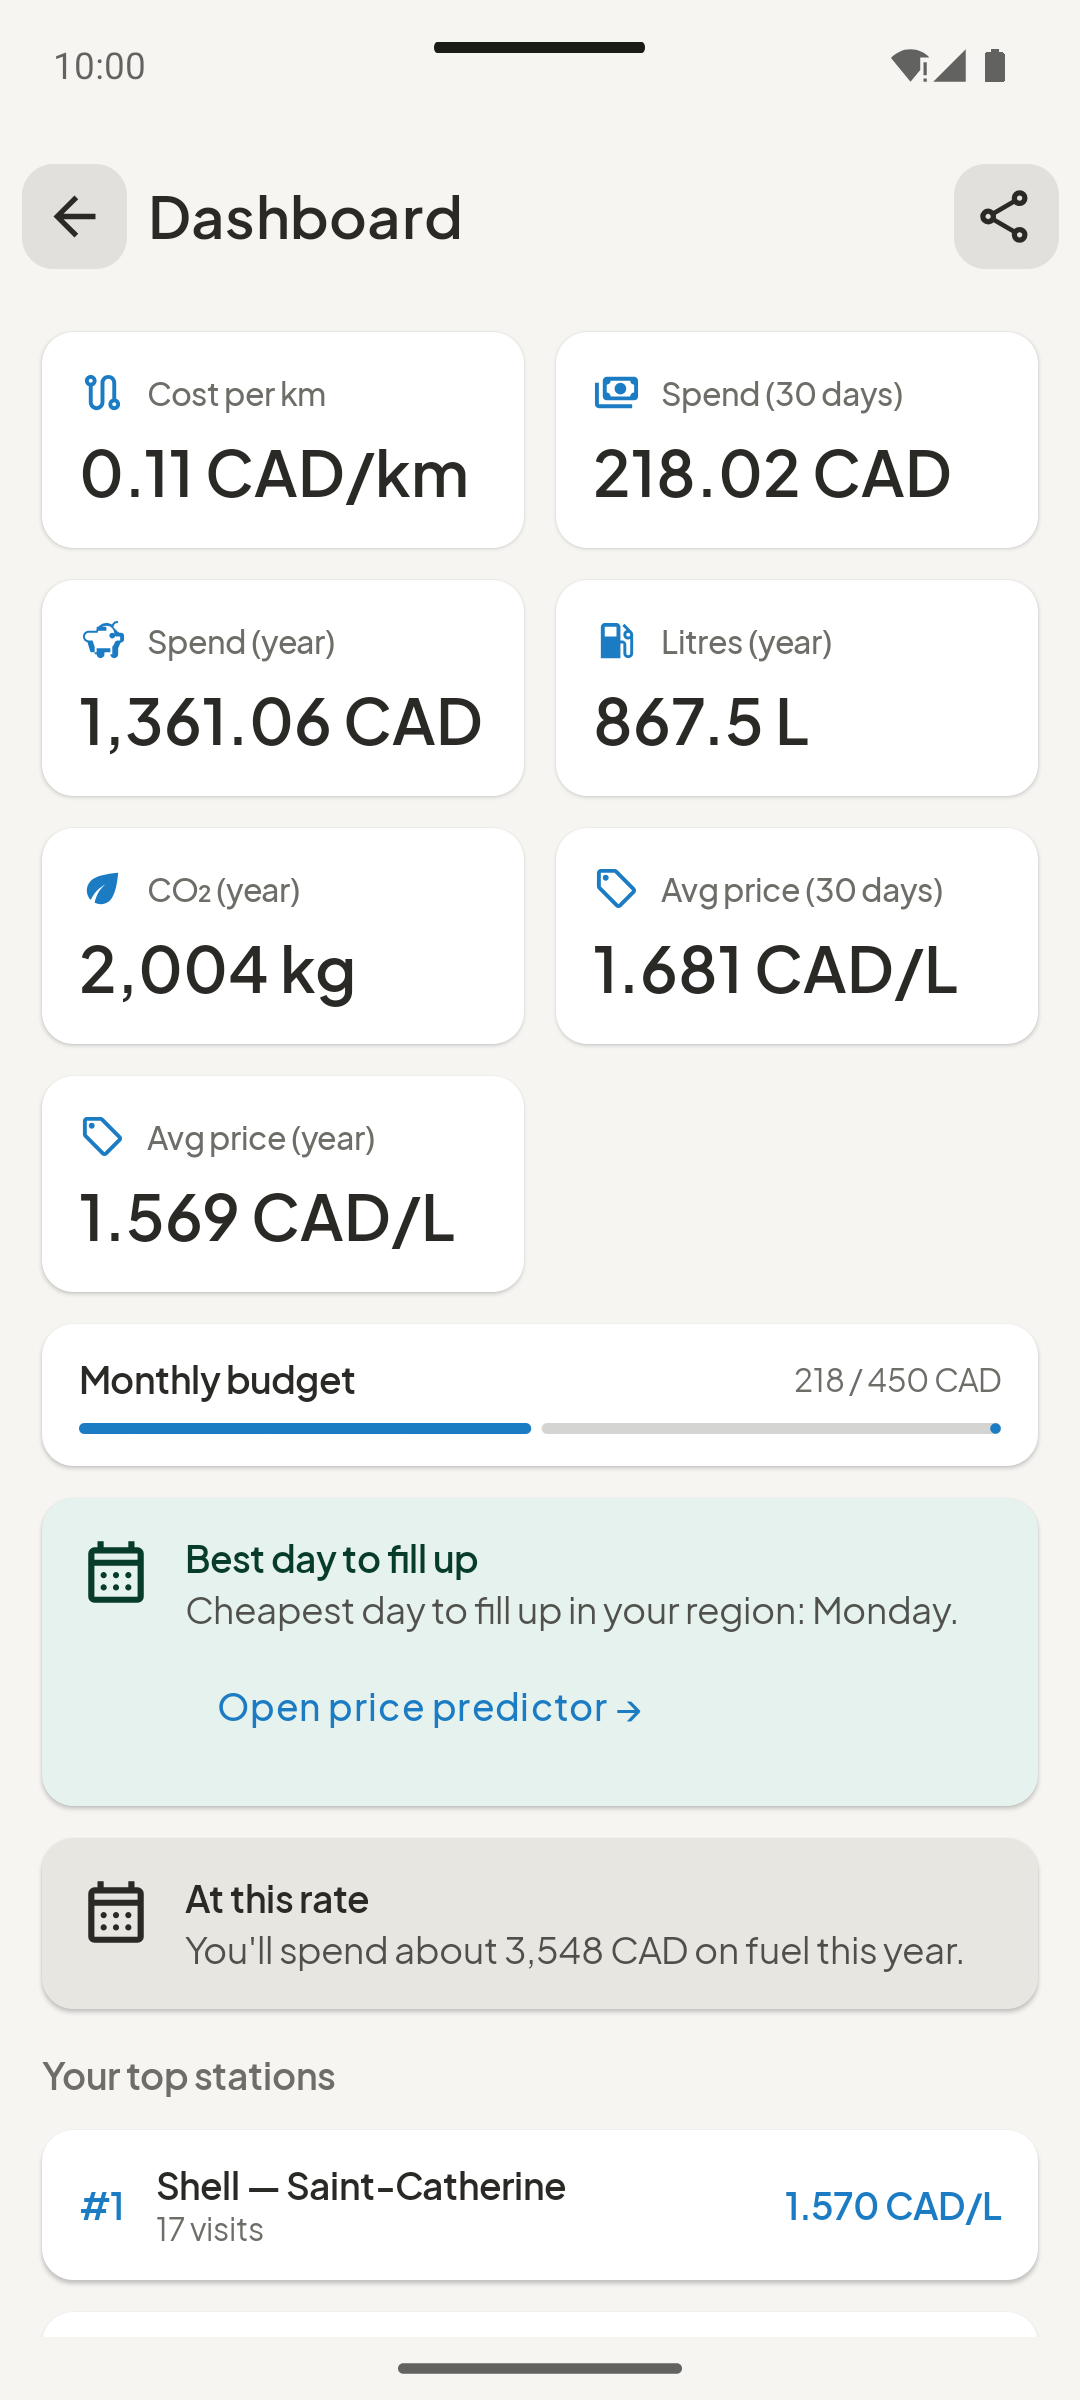
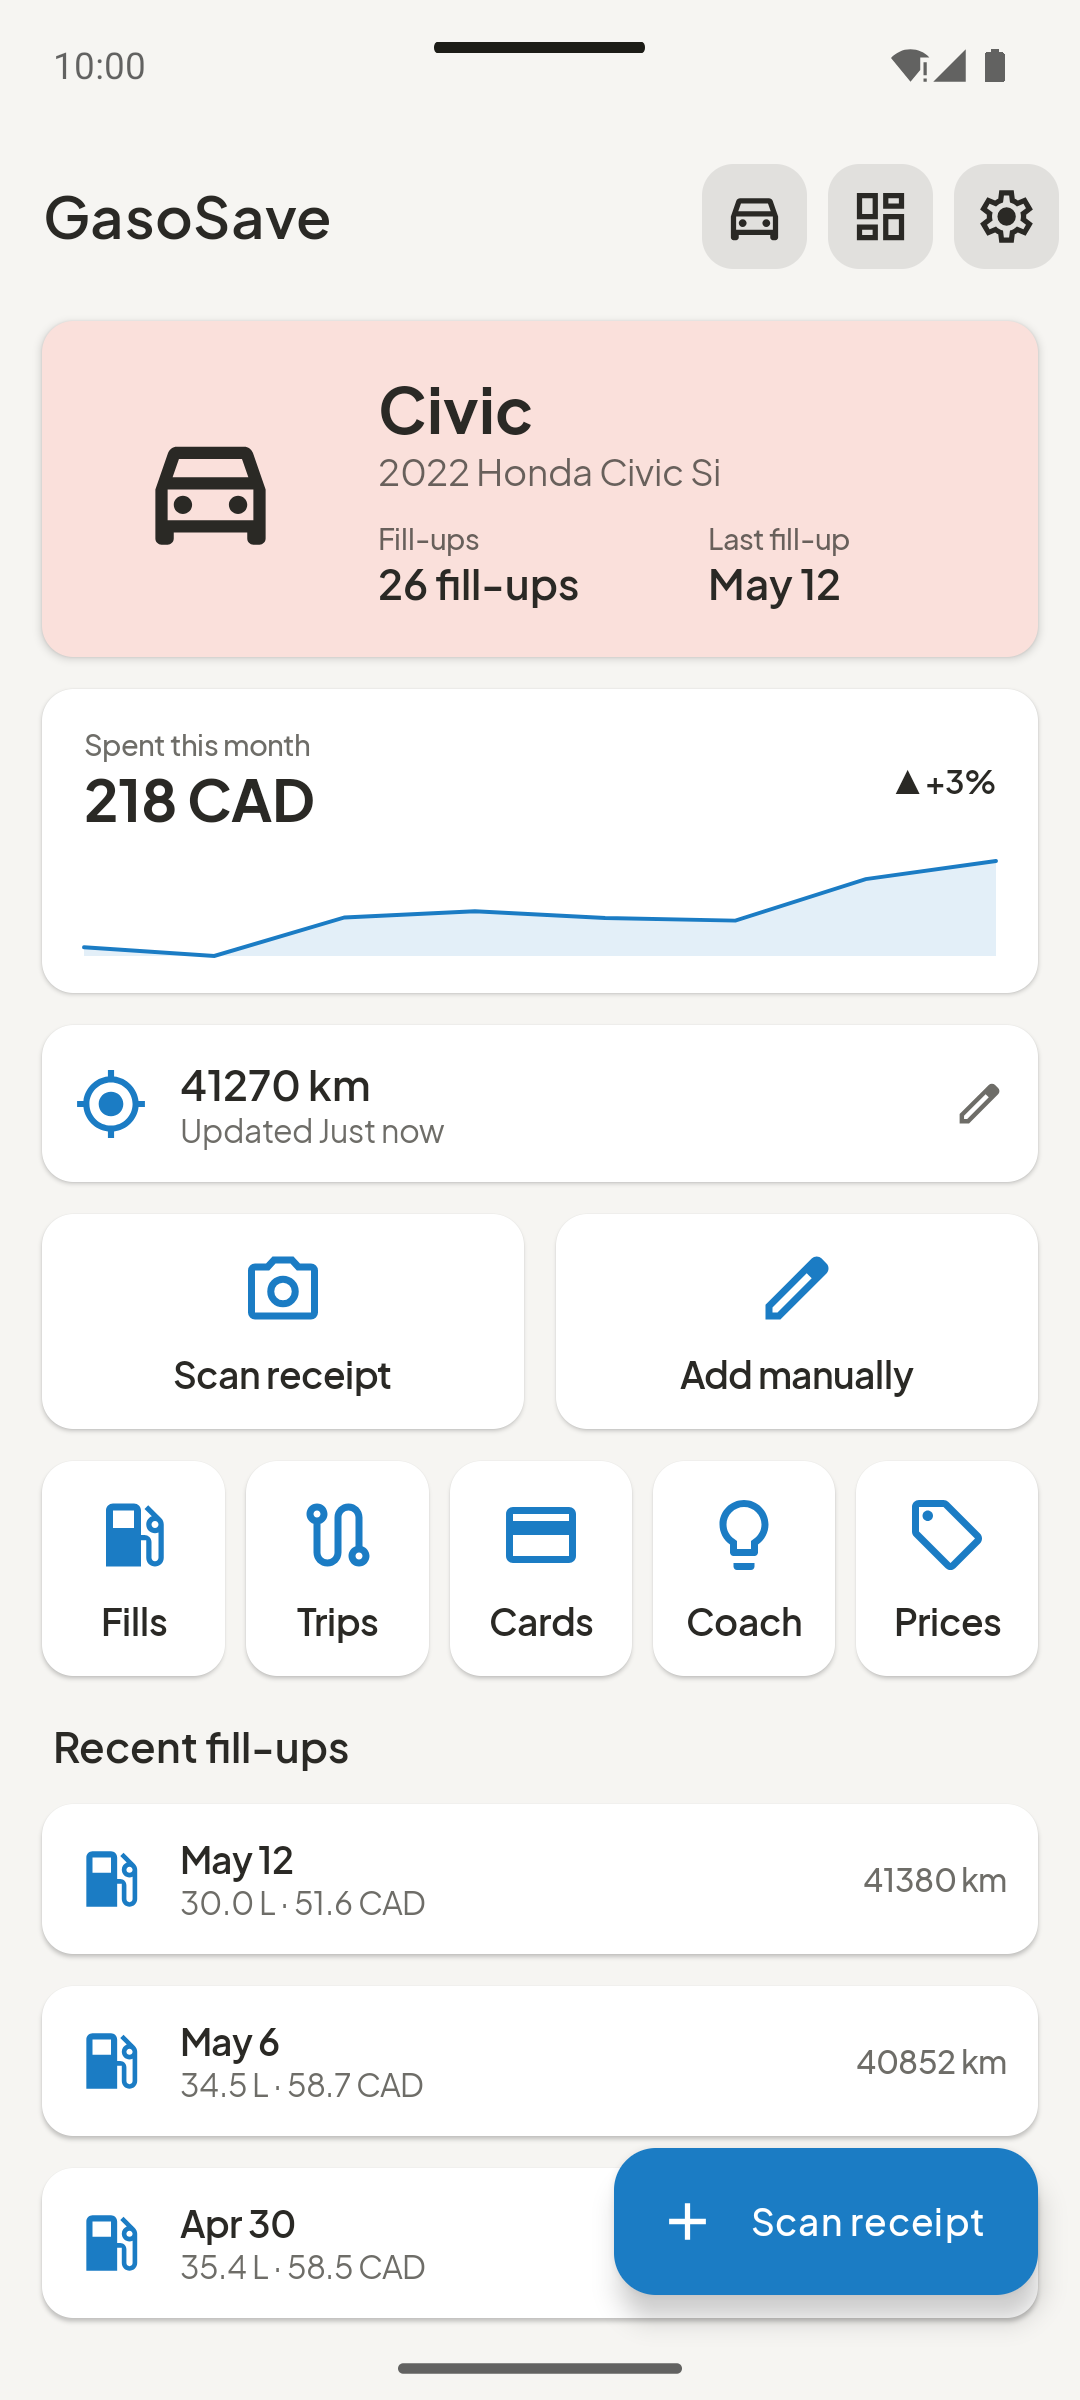
Gasosave Carouselle fix

diff --git a/index.html b/index.html
@@ -1199,8 +1199,8 @@
             <div class="app-screenshot">
                 <div class="phone-carousel" aria-label="GasoSave screenshots">
                     <div class="phone-frame">
-                        <img class="screenshot-light" src="img/gasosave-light.png" alt="GasoSave dashboard" loading="lazy">
-                        <img class="screenshot-dark" src="img/gasosave-dark.png" alt="GasoSave dashboard" loading="lazy">
+                        <img class="screenshot-light" src="img/gasosave-light.png" alt="My car" loading="lazy">
+                        <img class="screenshot-dark" src="img/gasosave-dark.png" alt="My car" loading="lazy">
                     </div>
                     <div class="phone-frame">
                         <img class="screenshot-light" src="img/gasosave-2-light.png" alt="Fill-up list" loading="lazy">
@@ -1211,8 +1211,8 @@
                         <img class="screenshot-dark" src="img/gasosave-3-dark.png" alt="Fill-up editor" loading="lazy">
                     </div>
                     <div class="phone-frame">
-                        <img class="screenshot-light" src="img/gasosave-4-light.png" alt="Vehicle stats" loading="lazy">
-                        <img class="screenshot-dark" src="img/gasosave-4-dark.png" alt="Vehicle stats" loading="lazy">
+                        <img class="screenshot-light" src="img/gasosave-4-light.png" alt="Dashboard" loading="lazy">
+                        <img class="screenshot-dark" src="img/gasosave-4-dark.png" alt="Dashboard" loading="lazy">
                     </div>
                     <div class="phone-frame">
                         <img class="screenshot-light" src="img/gasosave-5-light.png" alt="Trips list" loading="lazy">
@@ -1225,10 +1225,6 @@
                     <div class="phone-frame">
                         <img class="screenshot-light" src="img/gasosave-7-light.png" alt="Fuel price finder" loading="lazy">
                         <img class="screenshot-dark" src="img/gasosave-7-dark.png" alt="Fuel price finder" loading="lazy">
-                    </div>
-                    <div class="phone-frame">
-                        <img class="screenshot-light" src="img/gasosave-8-light.png" alt="My car" loading="lazy">
-                        <img class="screenshot-dark" src="img/gasosave-8-dark.png" alt="My car" loading="lazy">
                     </div>
                 </div>
                 <div class="carousel-controls">
